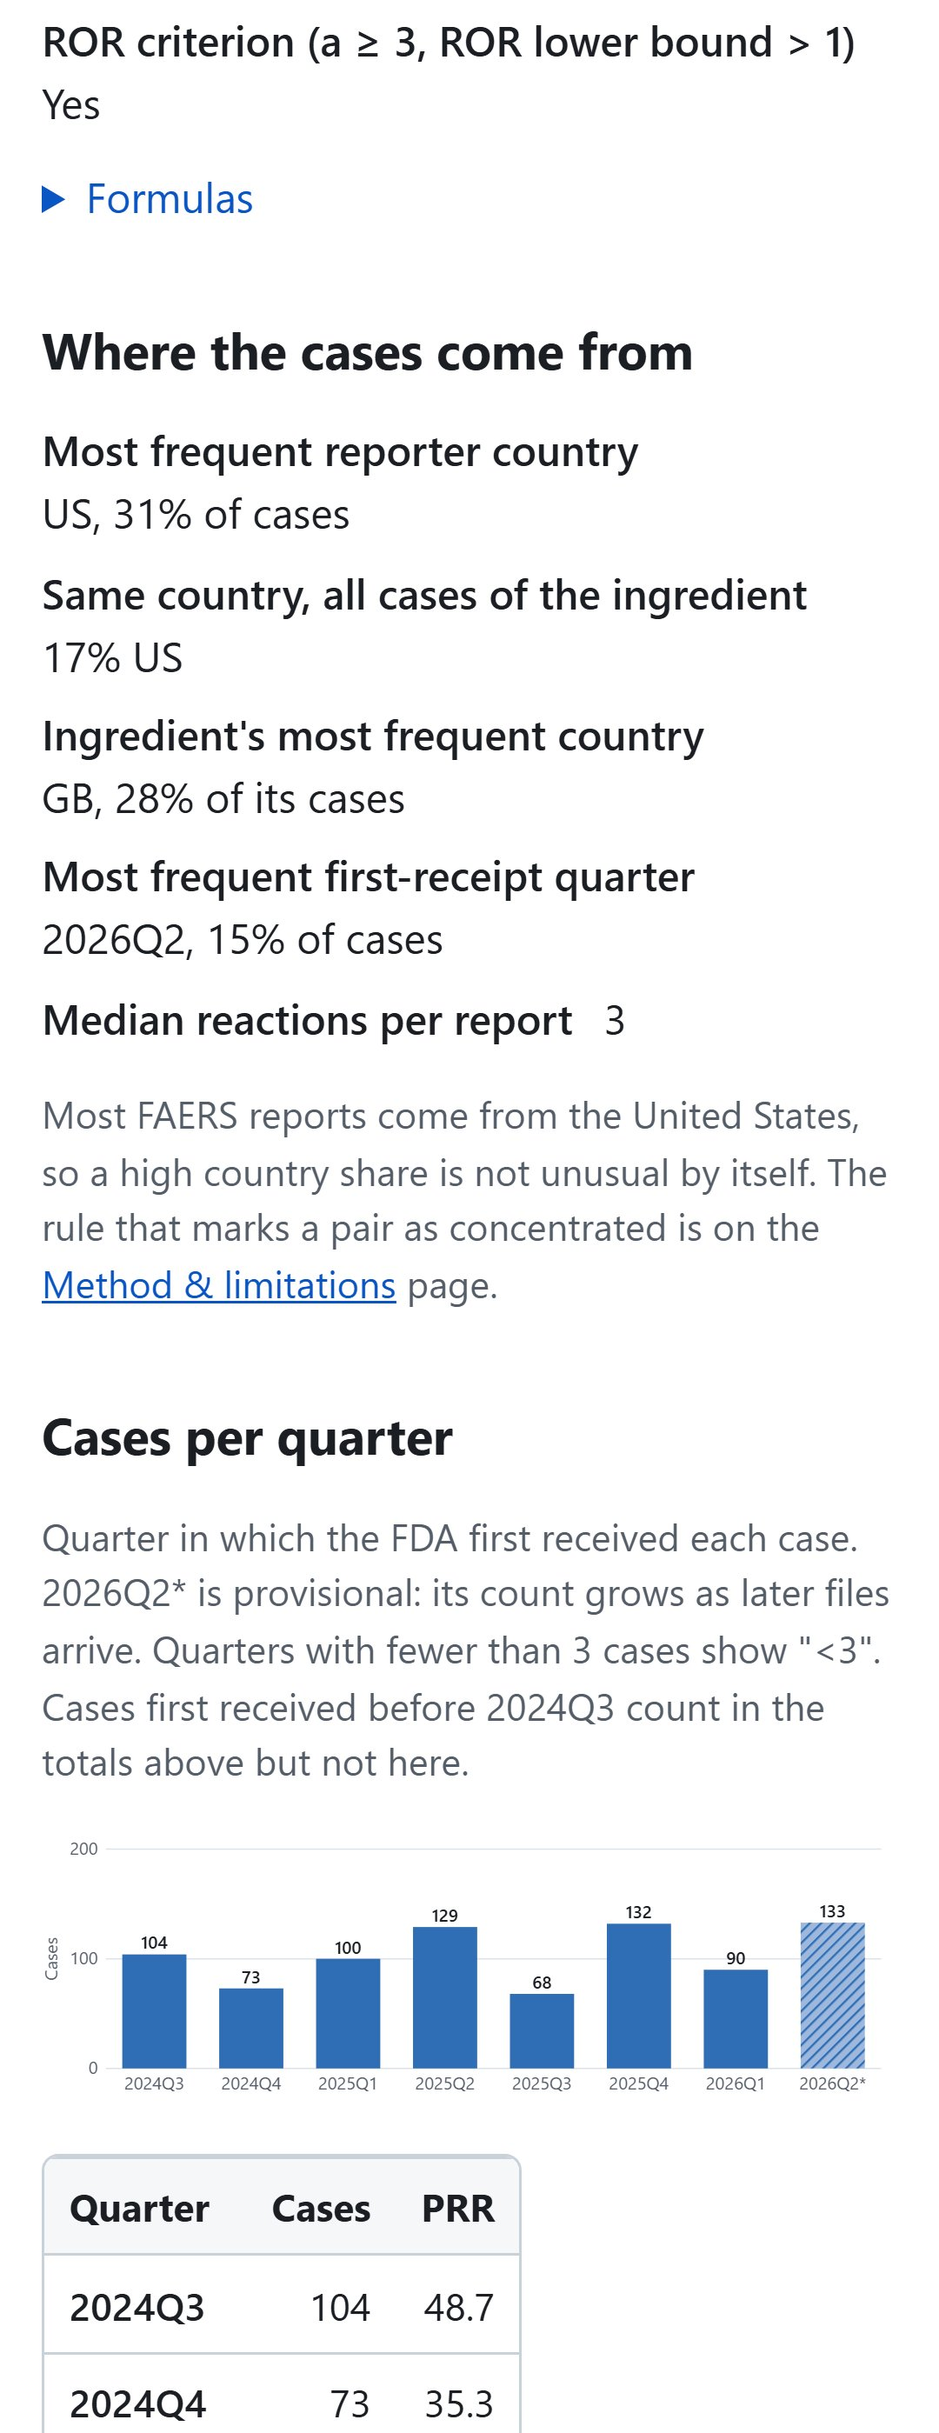
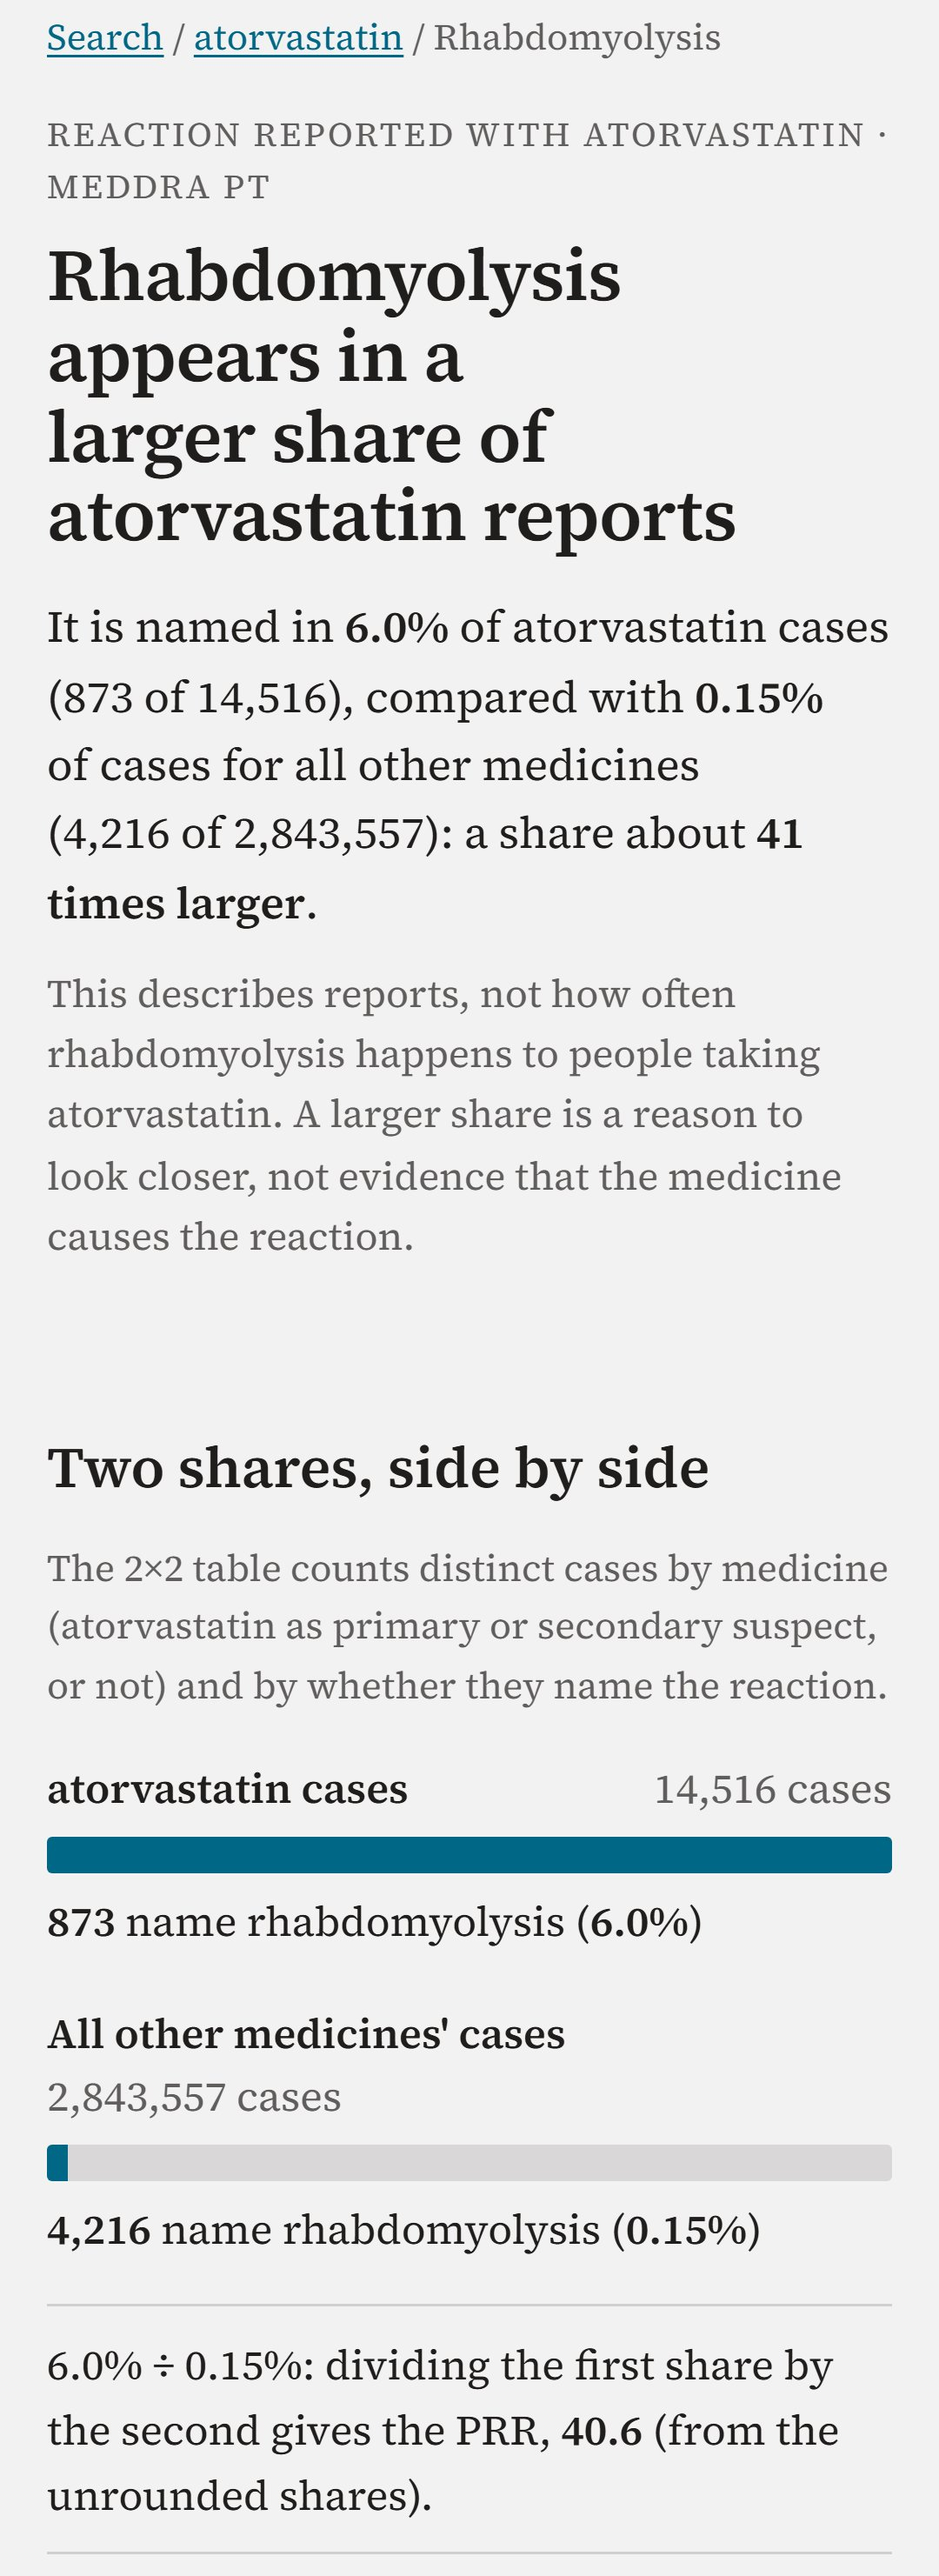
docs: describe the redesigned site in the README
Plain language first, numbers one click away, light and dark themes. New
screenshots from readme-shots.mjs: the home page, atorvastatin with the
first rows and their badges, and the pair page on a phone from the
breadcrumb, so the pair is named. The README keeps its 150 lines.

Changed region(s): [[0.0306, 0.0, 0.9472, 0.995], [0.7639, 0.4975, 0.7944, 0.5286]]

diff --git a/README.md b/README.md
@@ -12,13 +12,13 @@ data pipeline: Airflow ingests the quarters, RxNorm normalizes drug names, dbt a
 deduplicate cases and compute disproportionality (PRR, ROR), and a static site publishes the
 results with their data-quality metrics.
 
-**Explorer:** <https://yagocalomino.github.io/faers-pipeline/> (static site, no backend).
+**Explorer:** <https://yagocalomino.github.io/faers-pipeline/> (static site, no backend). Each page leads in plain language with what the numbers show and what they do not; the counts, 95% intervals, 2×2 tables and formulas are one click away. Light and dark themes.
 
-| Search | Ingredient page (atorvastatin) | Pair detail on a phone |
+| Search | Ingredient page (atorvastatin) | Pair page on a phone |
 |---|---|---|
-| ![Search page of the explorer, with the ingredients that have the most cases](docs/img/readme-search.jpg) | ![Atorvastatin page: reactions with cases, PRR, ROR and concentration alerts by country and quarter](docs/img/readme-ingredient.jpg) | ![Atorvastatin and rhabdomyolysis on a phone: where the cases come from and cases per quarter](docs/img/readme-pair-mobile.jpg) |
+| ![Home page: search by active ingredient, with the question the site answers](docs/img/readme-search.jpg) | ![Atorvastatin page: reactions with their cases, how much larger their share of reports is, and reporting-pattern badges](docs/img/readme-ingredient.jpg) | ![Rhabdomyolysis with atorvastatin on a phone: the headline and the two shares of reports compared](docs/img/readme-pair-mobile.jpg) |
 
-On the atorvastatin page, the first rows are reporting clusters; the concentration alert marks them.
+On the atorvastatin page, three of the first four reactions carry a "Reporting pattern" badge: most of their cases come from one country that is unusual for atorvastatin.
 
 ## Architecture
 
